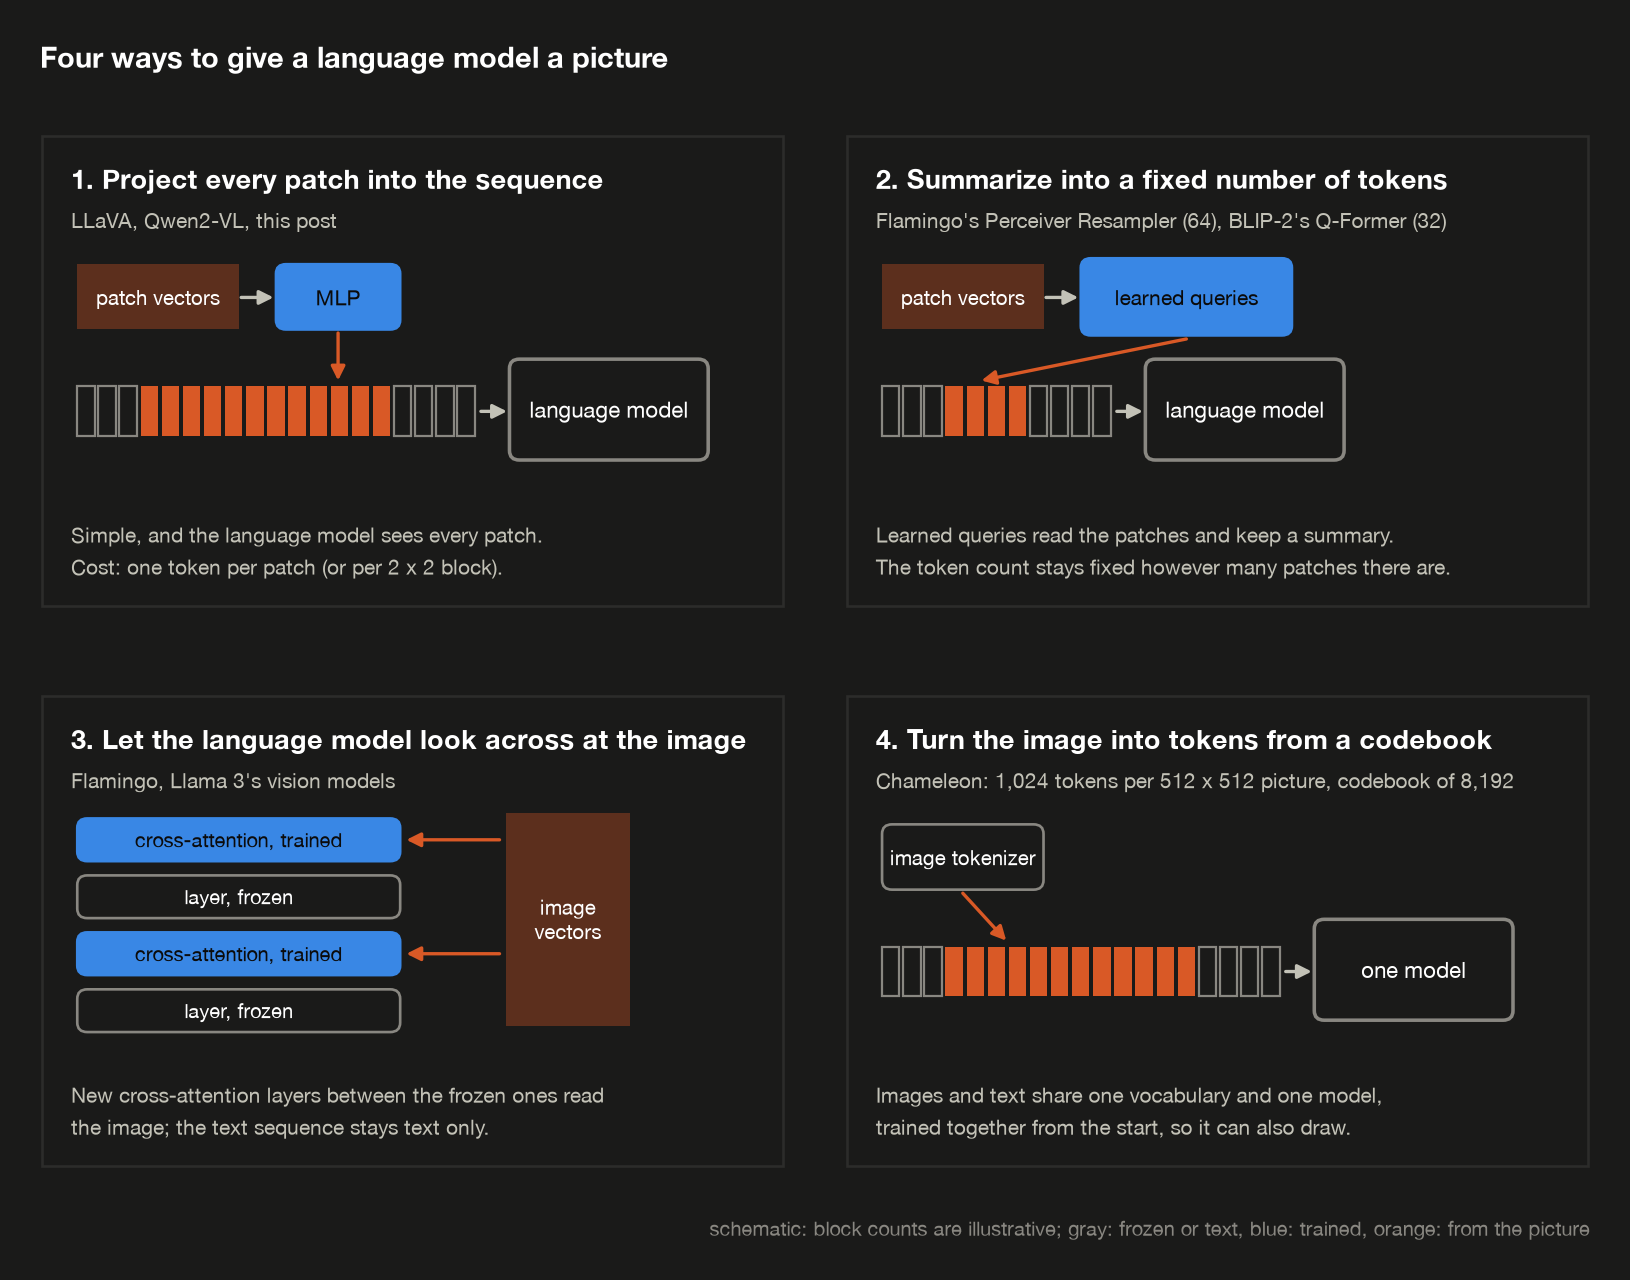
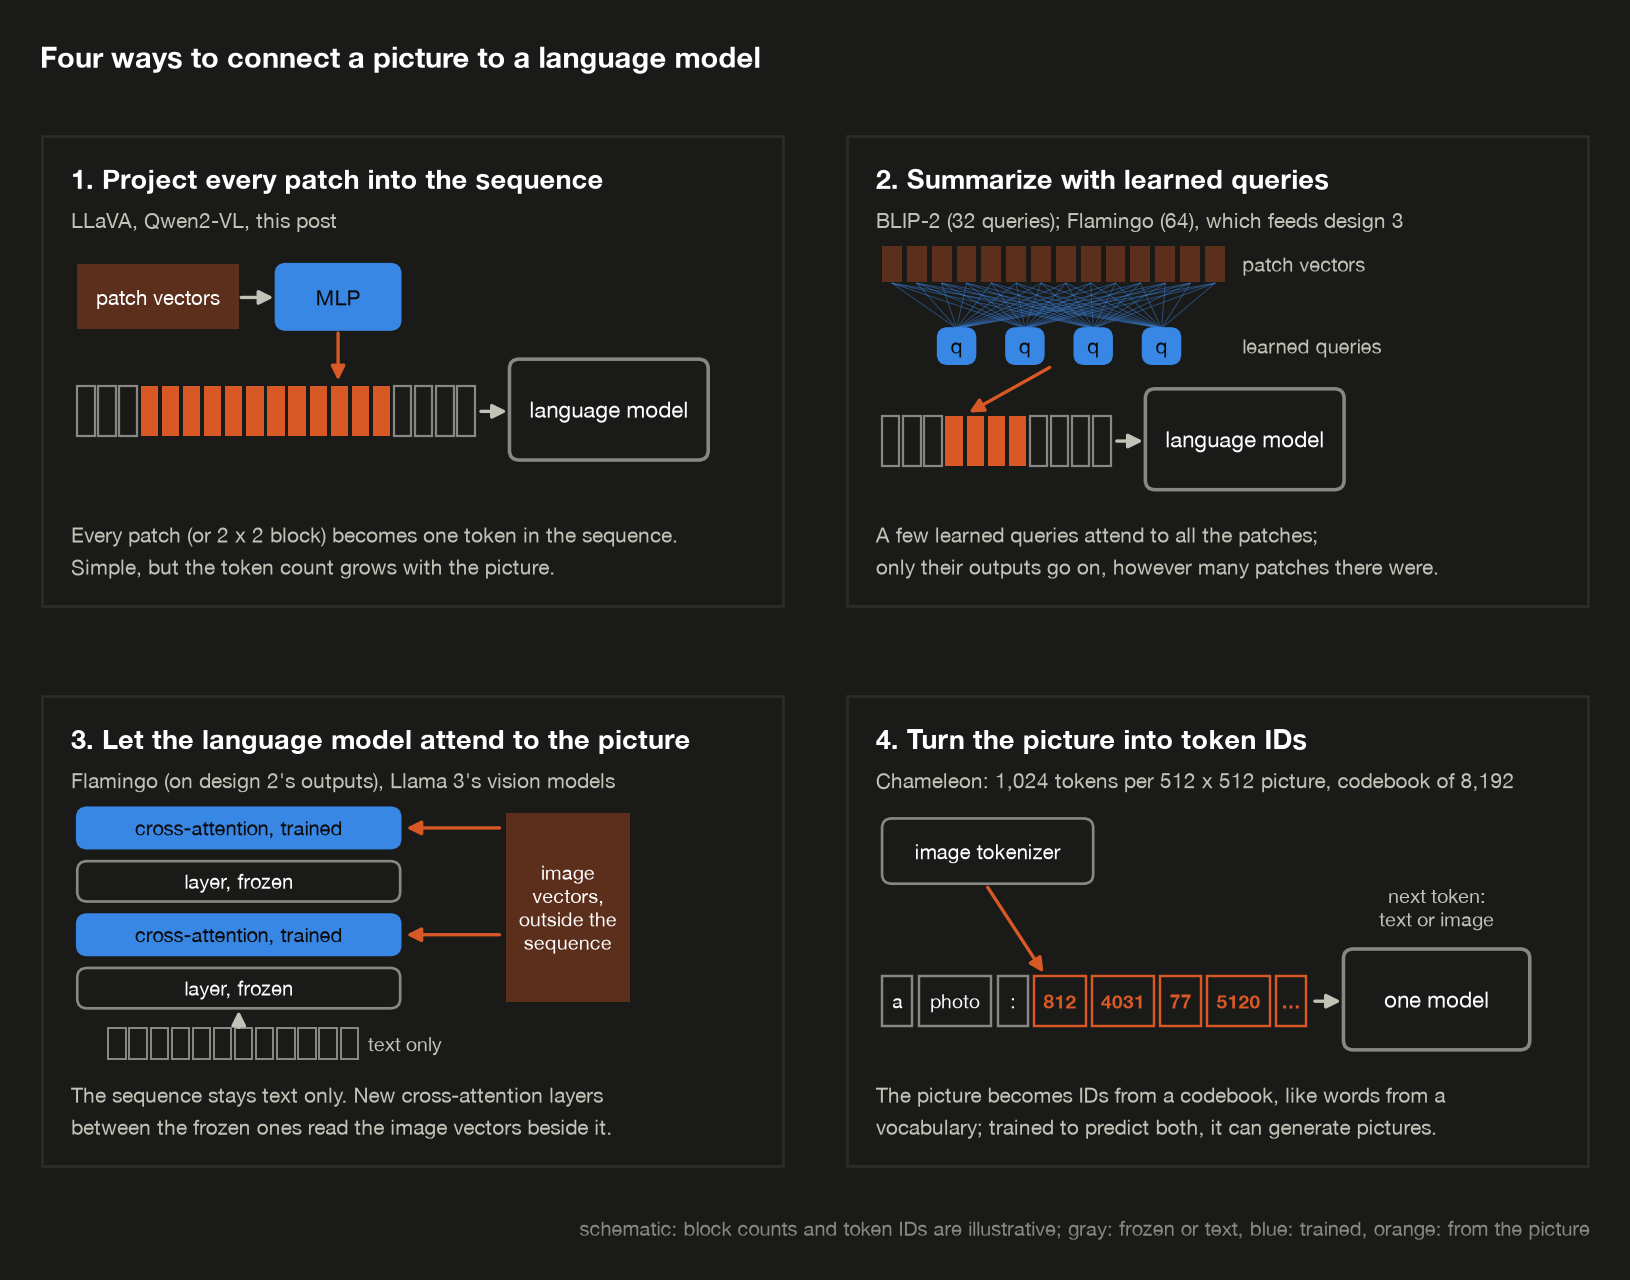
Post 7: section 9 organized by what happens to the picture, trade-off table, Flamingo as 2 + 3, verified quotes, redrawn figure

diff --git a/_posts/2026-11-03-llm-architectures-multimodal.md b/_posts/2026-11-03-llm-architectures-multimodal.md
@@ -1052,21 +1052,34 @@ The last table is the cost of sharper pictures. Patches are a fixed 16 pixels, s
 
 ### 9. Other ways to connect a picture {#other-designs}
 
-This post's model belongs to one family. The others matter because "multimodal LLM" covers several designs that differ exactly where this post's connector sits.
+This post's model takes SigLIP's patch vectors, passes them through a small connector, and puts the 49 vectors that come out into Qwen's input sequence. It works, but it isn't the only way. Every VLM has to answer the same question: **how does the picture's information reach the language model?** The published designs answer it in four main ways, and what separates them is what happens to the picture:
 
 <!-- FIGURE: connector-designs -->
-![Four ways to give a language model a picture: project every patch into the sequence, summarize it with learned queries into a fixed number of tokens, let cross-attention layers read it from the side, or turn it into discrete tokens from a codebook](/assets/picture/2026-10-11-llm-architectures-multimodal/connector-designs-light.png){: .light width="1000" height="785" }
-![Four ways to give a language model a picture: project every patch into the sequence, summarize it with learned queries into a fixed number of tokens, let cross-attention layers read it from the side, or turn it into discrete tokens from a codebook](/assets/picture/2026-10-11-llm-architectures-multimodal/connector-designs-dark.png){: .dark width="1000" height="785" }
+![Four ways to connect a picture to a language model: project every patch into the sequence; let a few learned queries attend to all the patches and pass on only their outputs; keep the picture outside a text-only sequence and read it through new cross-attention layers; or turn the picture into token IDs from a codebook that one model reads and can also predict](/assets/picture/2026-10-11-llm-architectures-multimodal/connector-designs-light.png){: .light width="1000" height="785" }
+![Four ways to connect a picture to a language model: project every patch into the sequence; let a few learned queries attend to all the patches and pass on only their outputs; keep the picture outside a text-only sequence and read it through new cross-attention layers; or turn the picture into token IDs from a codebook that one model reads and can also predict](/assets/picture/2026-10-11-llm-architectures-multimodal/connector-designs-dark.png){: .dark width="1000" height="785" }
 
-**1. Project every patch into the sequence.** This post's design, and [LLaVA](https://arxiv.org/abs/2304.08485)'s. LLaVA used a frozen CLIP encoder and "a simple linear layer" as its connector, trained in two stages that this post copies: first "we keep both the visual encoder and LLM weights frozen" and train only the projection, on 595,000 picture-caption pairs; then "we always keep the visual encoder weights frozen, and continue to update both the pre-trained weights of the projection layer and LLM" (§4.2). The one difference from this post is that LLaVA's second stage trained every weight of its language model, not a LoRA adapter. [Qwen2-VL](https://arxiv.org/abs/2409.12191) adds the 2 × 2 merge and handles pictures of any size by letting the number of patches vary. The appeal is simplicity: the language model sees every patch. The cost is tokens, which grow with the picture's size.
+**1. Project every patch into the sequence.** This post's design. An encoder turns the picture into patch vectors, a connector makes them the language model's width, and they go into the input sequence beside the words. [LLaVA](https://arxiv.org/abs/2304.08485) did the same with "a simple linear layer" (§4.1) on a frozen CLIP encoder, and its two training stages are the ones [§3](#stage-one) follows. The one difference is that LLaVA's second stage trained its whole language model, "continue to update both the pre-trained weights of the projection layer and LLM" (§4.2), where this post tried a LoRA adapter. [Qwen2-VL](https://arxiv.org/abs/2409.12191) uses the same 2 × 2 merge and goes further on size: it can "dynamically process images of varying resolutions into different numbers of visual tokens" (abstract). The appeal is simplicity: there are no new layers inside the language model, which reads the picture with the layers it already has. The cost is sequence length, which grows with the picture, and that's exactly what [§2](#the-connector)'s merge and [§8](#what-an-image-costs)'s numbers are about.
 
-**2. Summarize the picture into a fixed number of tokens.** [Flamingo](https://arxiv.org/abs/2204.14198)'s Perceiver Resampler and [BLIP-2](https://arxiv.org/abs/2301.12597)'s Q-Former both use a small set of learned **queries**, vectors that are trained to ask the patches useful questions through attention. Whatever the picture's size, the output is the same number of vectors: Flamingo "produces a fixed number of visual outputs (64)" (§2.1), BLIP-2 uses "32 queries" (§3.1). [Idefics2](https://arxiv.org/abs/2405.02246) compared the two on its own model and found that this kind of learned pooling, cutting 729 visual tokens to 64, "increases the performance by 8.5 points on average" (§3.3).
+**2. Summarize with learned queries.** What if the language model shouldn't get every patch? A small set of learned vectors, called **queries**, can attend to all the patches and gather what's useful into a few outputs. Think of each query as a trained request for information; nothing makes it match a question a person would ask, like "what color is the triangle?". [BLIP-2](https://arxiv.org/abs/2301.12597)'s Q-Former uses "32 queries" (§3.1), and their outputs, projected to the language model's width, are "prepended to the input text embeddings" as "soft visual prompts" (§3.3). [Flamingo](https://arxiv.org/abs/2204.14198)'s Perceiver Resampler "produces a fixed number of visual outputs (64)" (§2.1), and its cross-attention layers, design 3, then read them. The two modules are built and trained differently, but they share the idea: the number of outputs stays the same however many patches there were. [Idefics2](https://arxiv.org/abs/2405.02246) found that this kind of learned pooling, cutting 729 visual tokens to 64, "increases the performance by 8.5 points on average" (§3.3). The risk is the other side of the same choice: a few outputs have to carry everything, and fine detail can get lost.
 
-**3. Let the language model look across at the picture.** Here the picture never enters the sequence at all. New **cross-attention** layers are inserted between the language model's own layers: the text attends to the image vectors from the side, through layers trained for the purpose, while the original layers stay frozen. Flamingo does this with a gate that starts closed, multiplying each new layer's output by $\tanh(\alpha)$ with $\alpha$ "initialized to 0" (§2.2), so on day one the model is exactly the text model it started as. Meta's [Llama 3 vision models](https://arxiv.org/abs/2407.21783) use the same idea, with cross-attention "applied after every fourth self-attention layer" (§7.2), and leave the language model's own weights alone: "we intentionally do not update the language-model parameters" (§2).
+**3. Let the language model attend to the picture.** Here the picture's vectors stay outside the text sequence. New **cross-attention** layers go between the language model's own layers, and through them the text positions attend to the image vectors, while the original layers can stay frozen. The picture never takes a position in the sequence, but it still shapes every layer after the first cross-attention layer. Flamingo starts each new layer switched off: its output is multiplied by $\tanh(\alpha)$, with $\alpha$ "initialized to 0" (§2.2), so at the start the model is exactly the text model it began as. Meta's [Llama 3 vision models](https://arxiv.org/abs/2407.21783) apply cross-attention "after every fourth self-attention layer" (§7.2) and leave the language model as it was: "we intentionally do not update the language-model parameters" (§2). The cost is new machinery: extra layers, their parameters, and training that teaches the model to use them.
 
-**4. Turn the picture into tokens from a vocabulary.** [Chameleon](https://arxiv.org/abs/2405.09818) turns each picture into discrete tokens, each one the nearest entry in a learned list of 8,192 image pieces (a **codebook**), 1,024 tokens per 512 × 512 picture (§2.1), and trains one model on text tokens and image tokens together from the start. Since pictures are tokens like any other, the same model can also *write* them, which none of the other three designs can.
+**4. Turn the picture into token IDs.** The first three all hand the language model continuous vectors from an encoder. [Chameleon](https://arxiv.org/abs/2405.09818) instead turns a picture into discrete tokens, the way a text tokenizer turns words into IDs. Each token is the nearest entry in a learned list of 8,192 image pieces, a **codebook**, and a 512 × 512 picture becomes 1,024 tokens (§2.1). Text tokens and image tokens then go into one sequence for one model, trained on both together from the start. Because it's trained to predict image tokens as well as text, Chameleon can also generate pictures. That comes from the training, not from using discrete tokens alone. The cost is that every picture has to fit a fixed vocabulary of codes, and one model has to learn both kinds of token.
 
-Which is best? There's no single answer. Idefics2's most useful finding is a conditional one: a cross-attention design "performs better than the fully autoregressive one when unimodal pre-trained backbones are kept frozen", but once the backbones are trained too, putting the picture in the sequence wins (Finding 2). The backbones are the encoder and the language model, and "fully autoregressive" is design 1, the picture in the sequence. This post's frozen-backbone, small-scale setup is exactly the regime where design 3 might have done better, and that's a fair caveat on everything above.
+#### Which is best? {#which-design-is-best}
+
+| design | what happens to the picture | main advantage | main cost | examples |
+|---|---|---|---|---|
+| 1. project patches | its vectors join the text sequence | simple; no new layers in the language model | the sequence grows with the picture | this post, LLaVA, Qwen2-VL |
+| 2. learned queries | a few learned queries summarize it | a small, fixed number of outputs | a few outputs can lose detail | BLIP-2, Flamingo |
+| 3. cross-attention | it stays outside the sequence; new layers read it | uses no sequence positions; original layers can stay frozen | new layers to add and train | Flamingo, Llama 3's vision models |
+| 4. token IDs | it becomes tokens from a codebook | one model for text and pictures, including generating them | a fixed codebook; one model learns both | Chameleon |
+
+The designs can be combined, too: Flamingo uses 2 and 3 together.
+
+There's no single winner. Idefics2's most useful finding is a conditional one: a cross-attention design "performs better than the fully autoregressive one when unimodal pre-trained backbones are kept frozen", but once the backbones are trained too, putting the picture in the sequence wins (Finding 2). The backbones are the encoder and the language model, and "fully autoregressive" is design 1. This post's frozen-backbone, small-scale setup is exactly where design 3 might have done better, and that's a fair caveat on everything above.
+
+Building this one made the trade-offs concrete. With SigLIP and Qwen frozen and 3.56 million trained numbers, the model learned to answer questions about pictures. But every picture cost positions in the sequence ([§8](#what-an-image-costs)), shrinking them took a bigger connector ([§2](#the-connector)), and matching the width didn't by itself make the vectors mean anything ([§7](#one-sequence)). The other designs are different answers to the same problems: what to keep of the picture, how the language model gets at it, and what has to be trained so that it uses it.
 
 ---
 
